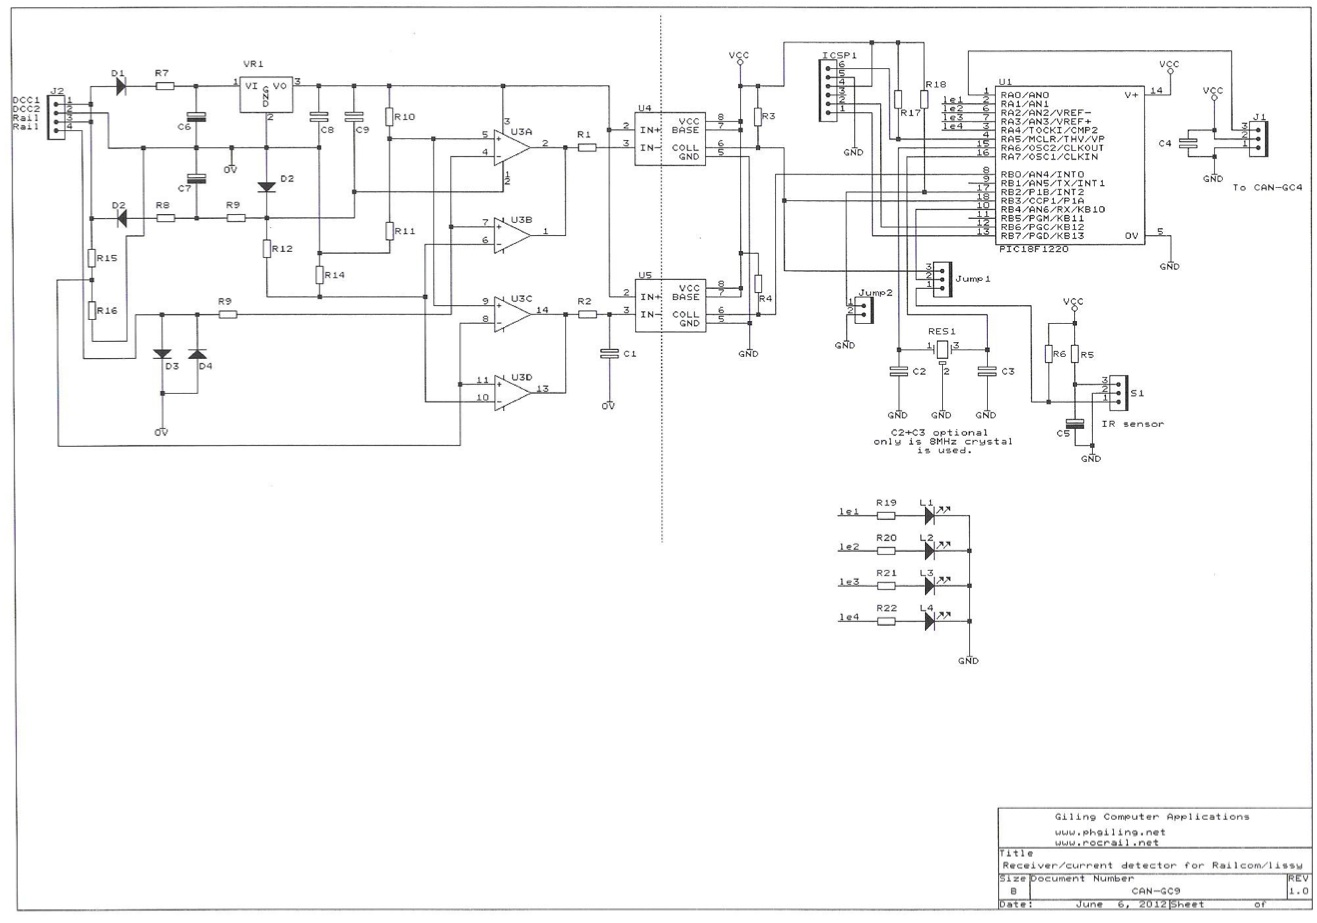
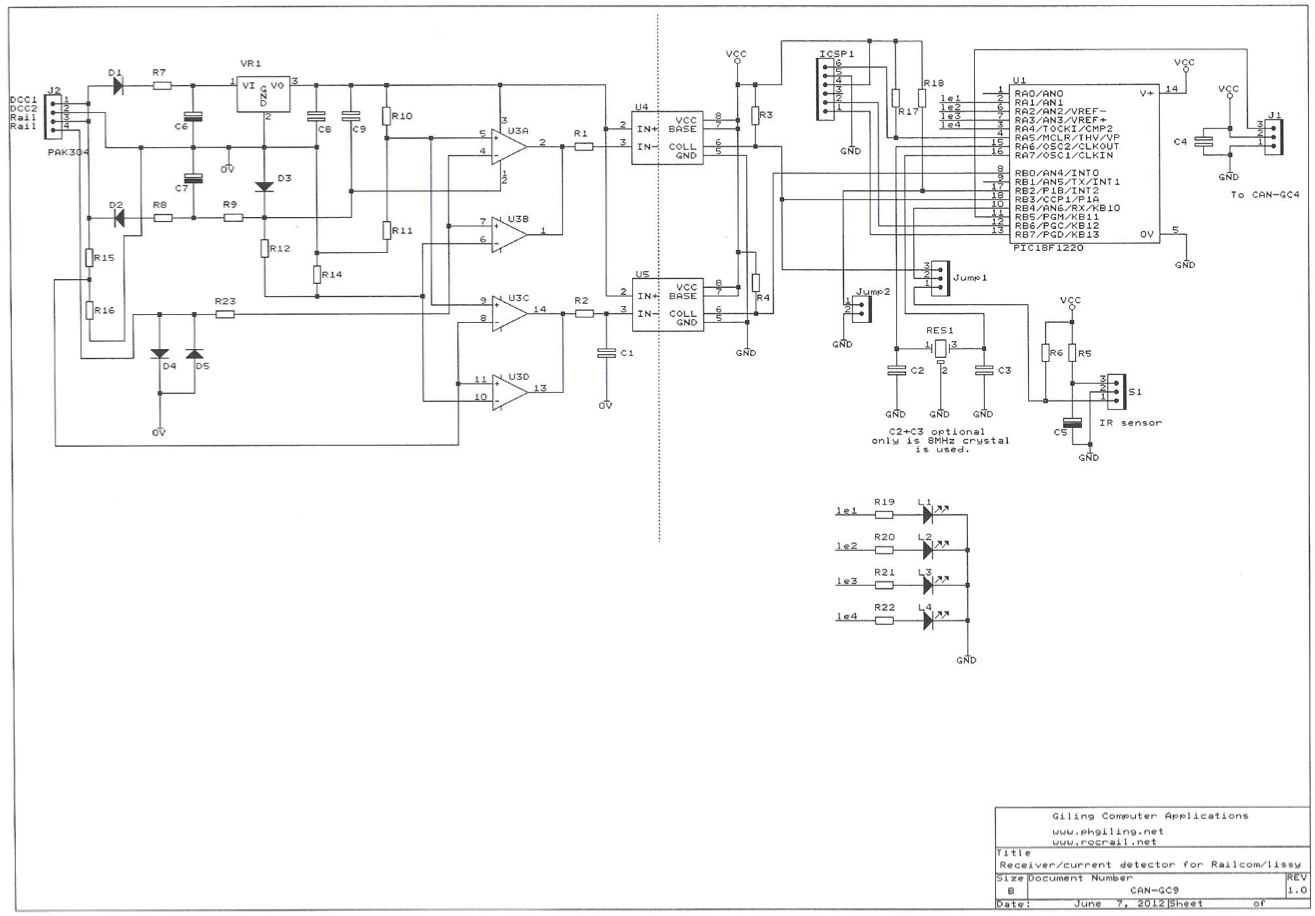
cangc9: diagram and pcb

diff --git a/cbus/cangc9/io.c b/cbus/cangc9/io.c
@@ -27,7 +27,7 @@ void initIO(void) {
   ADCON0 = 0x00;
   ADCON1 = 0x0F;
 
-  TRISAbits.TRISA0 = 0;  // Serial out to GC4
+  TRISBbits.TRISB5 = 0;  // Serial out to GC4
 
   TRISAbits.TRISA1 = 0;  // LED1 RUN
   TRISAbits.TRISA2 = 0;  // LED2 Occupancy

diff --git a/cbus/cangc9/io.h b/cbus/cangc9/io.h
@@ -44,7 +44,7 @@ RA6/7	 8MHz Resonator
 #define IN_DCC    PORTBbits.RB0
 #define IN_OCC    PORTBbits.RB3
 
-#define OUT_SER   PORTAbits.RA0
+#define OUT_SER   PORTBbits.RB5
 
 #define PORT_ON  1
 #define PORT_OFF 0
